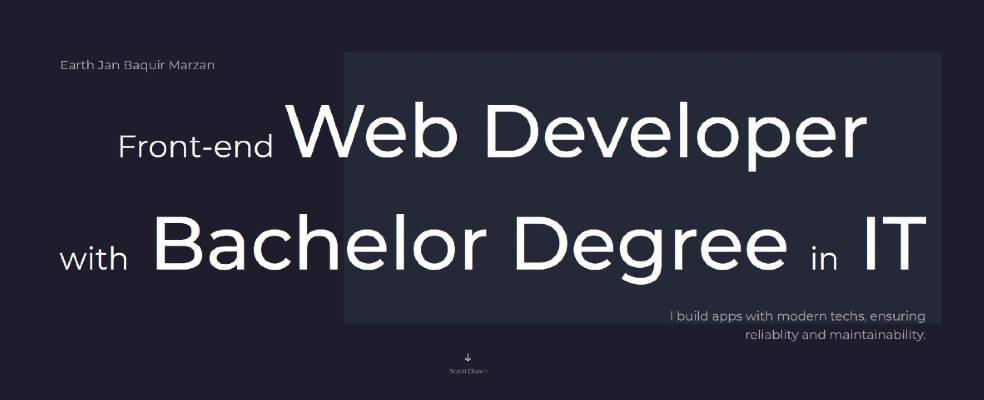
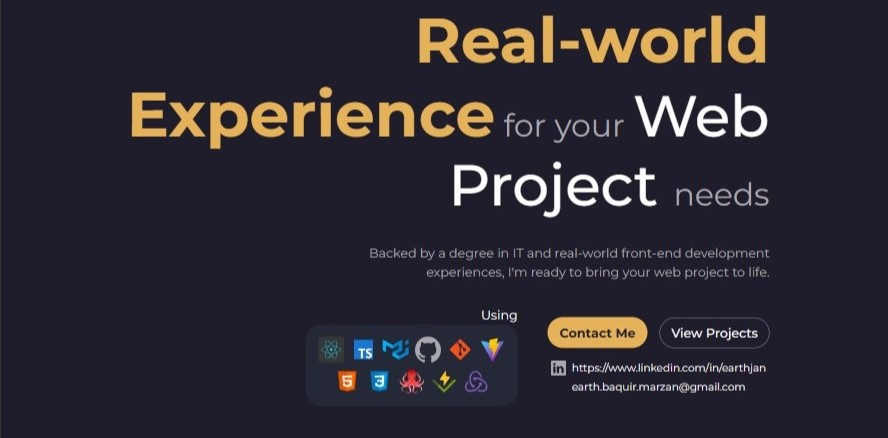
feat: Added contents

diff --git a/src/pages/public/MainPage/MainPage.jsx b/src/pages/public/MainPage/MainPage.jsx
@@ -1,18 +1,17 @@
 import { MenuItem } from "@mui/material";
 
-import VerticalAlignBottomIcon from "@mui/icons-material/VerticalAlignBottom";
-
 import MainPageTemplate from "../../../components/templates/MainPage/MainPage";
-import {
-  TextWithIcon,
-  Menu,
-  NavButton,
-  HashLink,
-} from "../../../components/atoms/atoms";
+import { NavButton, HashLink } from "../../../components/atoms/atoms";
 
 import mainPageSectionIds from "../../../constants/mainPageSectionIds";
 
-import downloadFile, { handleDownload } from "./utils/downloadFile";
+import {
+  myPortfolio,
+  philscaLogo,
+  digitalInnovLogo,
+} from "../../../assets/Svgs/svgs";
+
+import { handleDownload } from "./utils/downloadFile";
 
 const landingPageScrollToURL = `/#${mainPageSectionIds.about}`;
 /**
@@ -163,41 +162,46 @@ const appbarBurgerLinks = [
 ];
 
 const formDownloadLinks = { CV: "#", resume: "#" };
-const handleContactSubmit = (e) => {
-  // e.preventDefault();
-  // /**
-  //  * Uncomment this if it will be used.
-  //  */
-  // const name = e.target[0].value;
-  // const email = e.target[2].value;
-  // const subject = e.target[4].value;
-  // const message = e.target[6].value;
-  // console.log(name, email, subject, message)
-  // console.log("Submit was clicked!");
-};
 
 const bioOverview = {
   title: "Hi, I’m Earth!",
   paragraphs: [
-    "I’m a self-taught Front End Developer and school-taught Systems Engineer from Nigeria.",
-    "I've been building websites since 2017 with a focus on responsive design, accessibility and pleasing aesthetics.",
-    "I've spoken at multiple international conferences on a variety of topics ranging from web accessibility to career development.",
+    "As an experienced junior web developer specializing building web apps, particularly admin panels, I bring a strong foundation in front-end development.",
+    "My proficiency in React and TypeScript, coupled with my experience in MUI (Material UI) and unit testing automation, allows me to develop robust and efficient web apps. I am also adept at using GitHub for version control and project management.",
+    "I am a self-motivated individual who is always eager to learn and grow in my role.",
   ],
 };
 
 const readMoreContent = {
   skills: {
-    languages: ["HTML, CSS, JS", "NodeJS", "C#"],
-    libraries: ["ReactJS", "React-Redux", "Material-UI"],
-    tools: ["Git", "GitHub", "BitBucket", "Jira"],
+    languages: ["TypeScript", "HTML, CSS, JS", "NodeJS", "C#"],
+    libraries: [
+      "ReactJS",
+      "Material-UI",
+      "React Testing Library",
+      "Vitest",
+      "React-Redux",
+    ],
+    tools: ["Git", "GitHub", "Vite"],
   },
   experiences: [
     {
       company: "DigitalInnov",
-      position: "Front-end Developer Intern",
-      howLong: "June 2022 - Current",
-      description:
-        " Working with Shopify technologies to create e-commerce stores on various client projects.",
+      position: "Full-time Web Developer",
+      howLong: "Oct 2022 - Present",
+      description: [
+        "Part of the core team, leading the development of multiple web app projects.",
+        "Contribute to the overall development strategy and implementation of web apps.",
+      ],
+    },
+    {
+      company: "DigitalInnov",
+      position: "Web Developer Intern",
+      howLong: "June - Oct 2022 (5 months)",
+      description: [
+        "Part of the core developer team, responsible for developing web apps using React and Material UI.",
+        "Contribute to the overall development strategy and implementation of web apps.",
+      ],
     },
   ],
   educations: {
@@ -221,43 +225,60 @@ const readMoreContent = {
 };
 
 const projectSecTitle =
-  "I do most of my work under contract but I tend to freelance from time to time or build projects for fun. Here are some of my most recent commercial projects:";
+  "Driven by a passion for web development and a keen eye for detail, I've built a diverse portfolio of projects. Here are some of my most recent projects, showcasing my proficiency in building web apps.";
 const projects = [
   {
-    thumbnailUrl:
-      "https://cdn.dribbble.com/users/37585/screenshots/19759254/645dc533-44c8-4b19-bf2d-1ad510346a25.png",
-    title: "Trainella",
+    thumbnailUrl: philscaLogo,
+    title: "Computer Laboratory Management System in PhilSCA Pasay Campus",
     description:
-      "I built this project for a client after attending her yoga class. She wanted a WordPress site with a more custom layout so I used an existing WordPress theme and tweaked it with about 500 lines of additional CSS.",
-    techStack: ["HTML", "CSS", "JavaScript"],
-    projectUrl: "#",
+      "I was responsible for the development of the web app. This application automates tasks such as remote computer monitoring. I utilized C# ASP.NET for platform development, MySQL for DBMS, and PsTools for remote executions.",
+    techStack: ["C#", "ASP.NET", "MySQL", "PsTools"],
+    projectUrl: "https://github.com/earthjan/computer-lab-management",
   },
   {
-    thumbnailUrl:
-      "https://cdn.dribbble.com/users/37585/screenshots/19759254/645dc533-44c8-4b19-bf2d-1ad510346a25.png",
-    title: "Trainella",
+    thumbnailUrl: digitalInnovLogo,
+    title: "Digitalinnov: Confidential Project A",
     description:
-      "I built this project for a client after attending her yoga class. She wanted a WordPress site with a more custom layout so I used an existing WordPress theme and tweaked it with about 500 lines of additional CSS.",
-    techStack: ["HTML", "CSS", "JavaScript"],
-    projectUrl: "#",
+      "As an intern, I'm leading a confidential web application project, architecting it with React and TypeScript, and ensuring optimal performance. I utilized MUI v5 for a responsive user interface and Vitest & RTL for app's quality and reliability.",
+    techStack: [
+      "ReactJS",
+      "TypeScript",
+      "MUI",
+      "Vitest",
+      "React Testing Library",
+      "Redux",
+    ],
+    officialSite: "https://digitalinnov.com/",
   },
   {
-    thumbnailUrl:
-      "https://cdn.dribbble.com/users/37585/screenshots/19759254/645dc533-44c8-4b19-bf2d-1ad510346a25.png",
-    title: "Trainella",
+    thumbnailUrl: digitalInnovLogo,
+    title: "Digitalinnov: Confidential Project B",
     description:
-      "I built this project for a client after attending her yoga class. She wanted a WordPress site with a more custom layout so I used an existing WordPress theme and tweaked it with about 500 lines of additional CSS.",
-    techStack: ["HTML", "CSS", "JavaScript"],
-    projectUrl: "#",
+      "I'm part of the project's core dev team, allowing me to also decide the architecture and design to tech stack selection. I used ReactJS, TypeScript, MUI, React Admin v4, Vitest, and React Testing Library to build the application.",
+    techStack: [
+      "ReactJS",
+      "TypeScript",
+      "MUI",
+      "React Admin v4",
+      "Vitest",
+      "React Testing Library",
+    ],
+    officialSite: "https://digitalinnov.com/",
   },
   {
-    thumbnailUrl:
-      "https://cdn.dribbble.com/users/37585/screenshots/19759254/645dc533-44c8-4b19-bf2d-1ad510346a25.png",
-    title: "Trainella",
+    thumbnailUrl: myPortfolio,
+    title: "My Portfolio",
     description:
-      "I built this project for a client after attending her yoga class. She wanted a WordPress site with a more custom layout so I used an existing WordPress theme and tweaked it with about 500 lines of additional CSS.",
-    techStack: ["HTML", "CSS", "JavaScript"],
-    projectUrl: "#",
+      "I'm part of the project's core dev team, allowing me to also decide the architecture and design to tech stack selection. I used ReactJS, TypeScript, MUI, React Admin v4, Vitest, and React Testing Library to build the application.",
+    techStack: [
+      "ReactJS",
+      "TypeScript",
+      "MUI",
+      "React Admin v4",
+      "Vitest",
+      "React Testing Library",
+    ],
+    projectUrl: "https://github.com/earthjan/earth",
   },
 ];
 
@@ -276,7 +297,6 @@ const MainPage = () => {
       projectSecTitle={projectSecTitle}
       projects={projects}
       formDownloadLinks={formDownloadLinks}
-      handleContactSubmit={handleContactSubmit}
       onDownloadCv={async () => await handleDownload("cv")}
       onDownloadResume={async () => await handleDownload("resume")}
       linkedInURL={linkedInURL}
